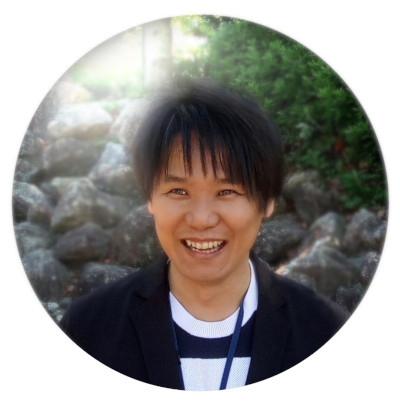
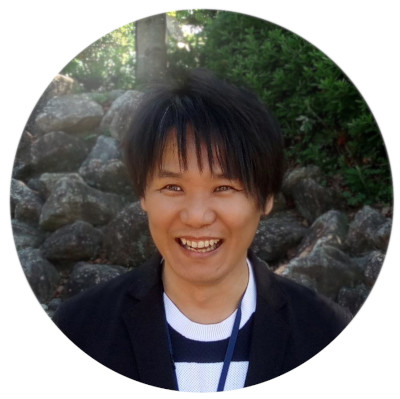
Updated images.

diff --git a/index.html b/index.html
@@ -642,7 +642,7 @@
                                     
                                     <div class="card col-xs-12 col-sm-6 col-md-3 about-cards">
                                         <div class="h-100">
-                                            <img class="card-img-top img-fluid" src="./public/images/craig_circle.jpg" alt="Card image cap">
+                                            <img class="card-img-top img-fluid" src="./public/images/pirrall_04.jpg" alt="Card image cap">
                                             <div class="card-body">
                                                 <h5 class="card-title text-center">Craig Pirrall<br>System Developer</h5>
                                             </div>
@@ -651,7 +651,7 @@
                                     </div>
                                     <div class="card col-xs-12 col-sm-6 col-md-3 about-cards">
                                         <div class="h-100">
-                                            <img class="card-img-top img-fluid" src="./public/images/dominik.jpg" alt="Card image cap">
+                                            <img class="card-img-top img-fluid" src="./public/images/Dominik02.jpg" alt="Card image cap">
                                             <div class="card-body">
                                                 <h5 class="card-title text-center">Dominik Junkermann<br>System Developer</h5>
                                             </div>
@@ -743,7 +743,7 @@
                                 <div class="row col-xs-12">
                                     <div class="card col-xs-12 col-sm-6 col-md-3 about-cards">
                                             <div class="h-100">
-                                                <img class="card-img-top" src="./public/images/genericUserProfile.svg" alt="Card image cap">
+                                                <img class="card-img-top" src="./public/images/hando_02.jpg" alt="Card image cap">
                                                 <div class="card-body">
                                                     <h5 class="card-title text-center">Hidetaka Hando<br>CEO / Designer</h5>
                                                 </div>
@@ -751,7 +751,7 @@
                                         </div>
                                         <div class="card col-xs-12 col-sm-6 col-md-3 about-cards">
                                             <div class="h-100">
-                                                <img class="card-img-top" src="./public/images/genericUserProfile2.svg" alt="Card image cap">
+                                                <img class="card-img-top" src="./public/images/fukuisan-circle.jpg" alt="Card image cap">
                                                 <div class="card-body">
                                                     <h5 class="card-title text-center">Kazuhiro Fukui<br>System Architect</h5>
                                                 </div>                                            
@@ -760,7 +760,7 @@
                                         
                                         <div class="card col-xs-12 col-sm-6 col-md-3 about-cards">
                                             <div class="h-100">
-                                                <img class="card-img-top img-fluid" src="./public/images/cp.jpg" alt="Card image cap">
+                                                <img class="card-img-top img-fluid" src="./public/images/pirrall_04.jpg" alt="Card image cap">
                                                 <div class="card-body">
                                                     <h5 class="card-title text-center">Craig Pirrall<br>System Developer</h5>
                                                 </div>
@@ -769,7 +769,7 @@
                                         </div>
                                         <div class="card col-xs-12 col-sm-6 col-md-3 about-cards">
                                             <div class="h-100">
-                                                <img class="card-img-top" src="./public/images/genericUserProfil4.svg" alt="Card image cap">
+                                                <img class="card-img-top" src="./public/images/Dominik02.jpg" alt="Card image cap">
                                                 <div class="card-body">
                                                     <h5 class="card-title text-center">Dominik Junkermann<br>System Developer</h5>
                                                 </div>
